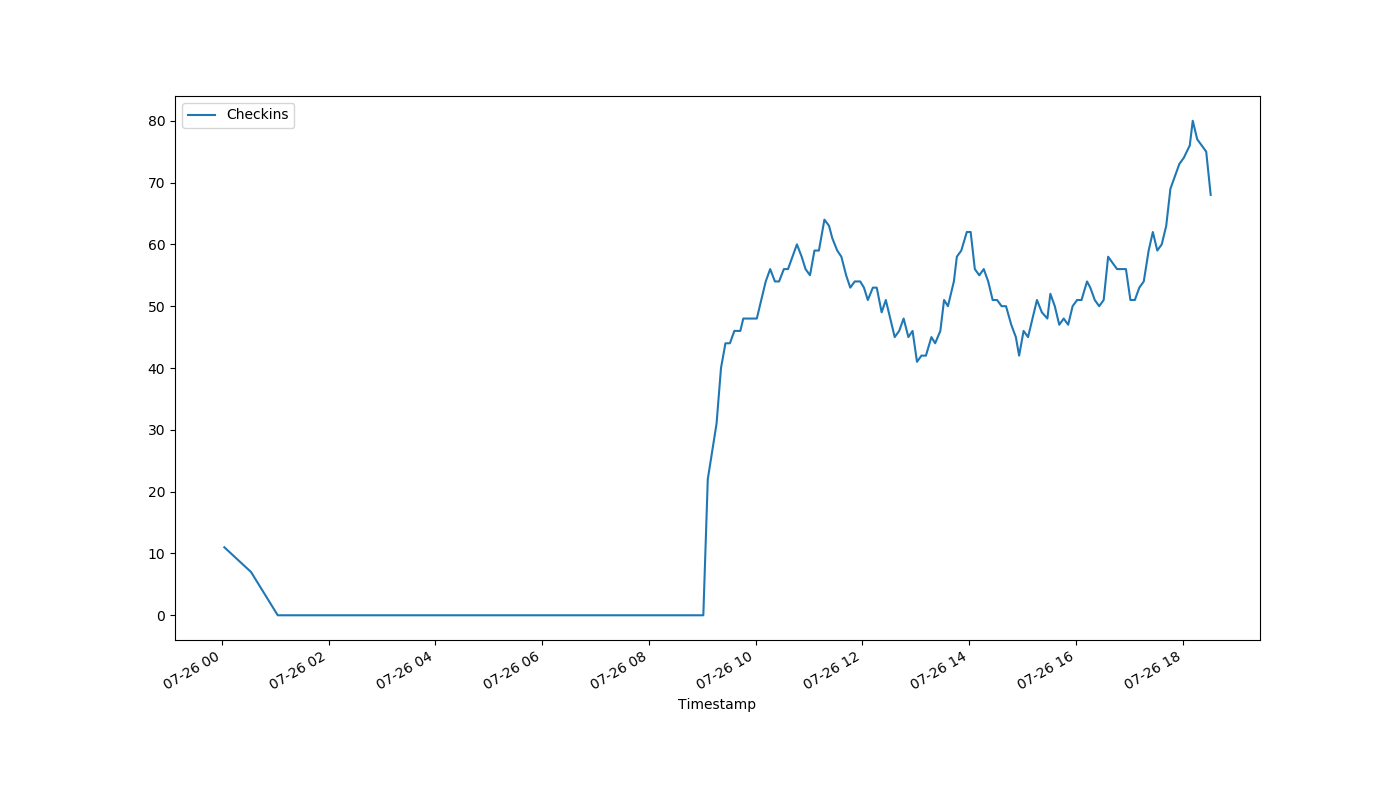
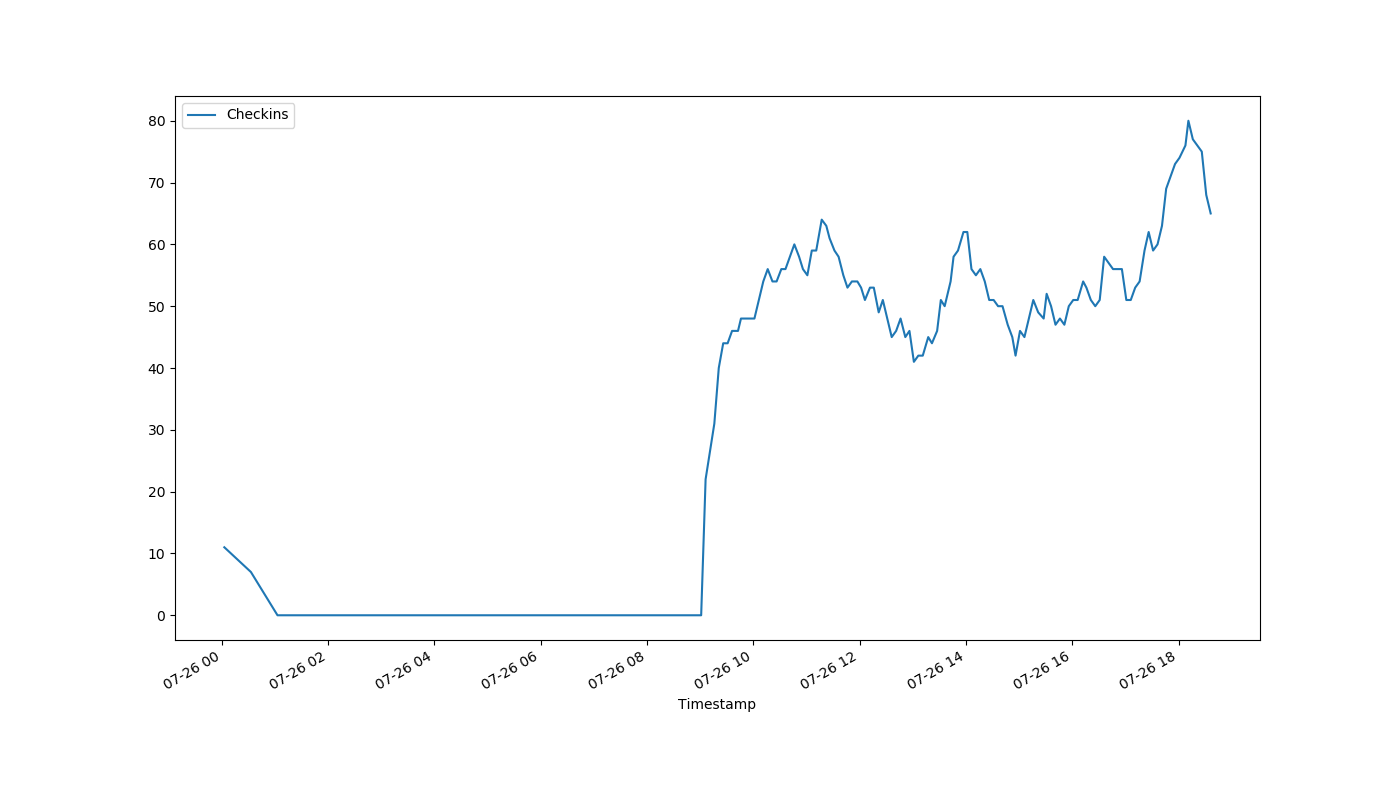
auto-Jul-26-18:38:43

diff --git a/index.html b/index.html
@@ -1,1 +1,1 @@
-<!DOCTYPE html><html><head><meta http-equiv="refresh" content="30"><link rel='stylesheet' href='holmcurrent.css'></head><body><p id='count'>68</p><div id='graph-wrap'><img id='graph' src='holmgraph-Jul-26.png'></div><p id='updated'>Last updated 18:32:15 / 18:31:17</p></body></html>
+<!DOCTYPE html><html><head><meta http-equiv="refresh" content="30"><link rel='stylesheet' href='holmcurrent.css'></head><body><p id='count'>65</p><div id='graph-wrap'><img id='graph' src='holmgraph-Jul-26.png'></div><p id='updated'>Last updated 18:37:15 / 18:36:17</p></body></html>
